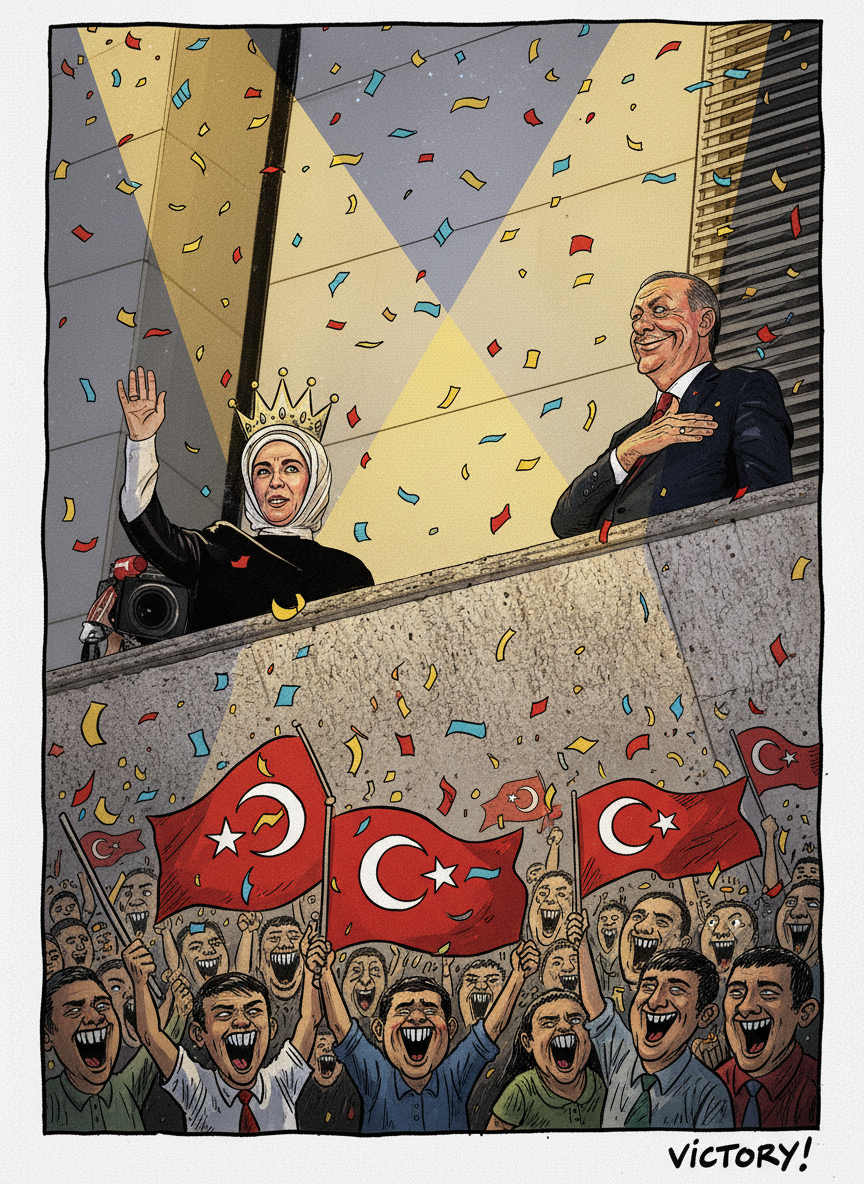
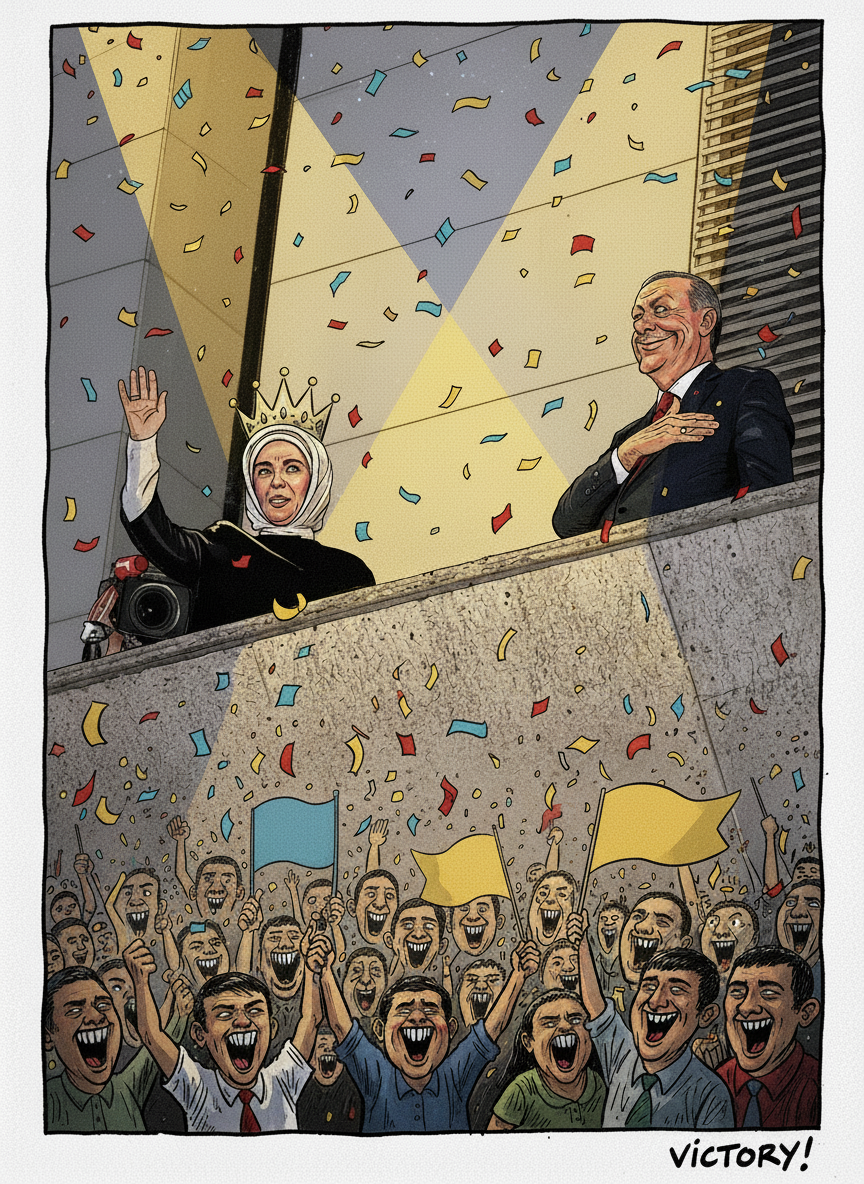
Changes

diff --git a/src/data/electionData.ts b/src/data/electionData.ts
@@ -59,11 +59,11 @@ const electionsTr: ElectionConfig[] = [
     startingPlayerVote: 55,
     playerCards: [
       { id: 11, text: "Gezi olaylarını terörize et", emoji: "😱", voterEffect: 6, cost: 10 },
-      { id: 12, text: "Milli birlik çağrısı yap", emoji: "🇹🇷", voterEffect: 7, cost: 14 },
+      { id: 12, text: "Milli birlik çağrısı yap", emoji: "📣", voterEffect: 7, cost: 14 },
       { id: 13, text: "Devlet töreni düzenle", emoji: "🎖", voterEffect: 4, cost: 6 },
       { id: 14, text: "Ekonomik istikrar vaat et", emoji: "📈", voterEffect: 5, cost: 8 },
       { id: 15, text: "Sosyal yardım dağıt", emoji: "📦", voterEffect: 6, cost: 10 },
-      { id: 16, text: "Bayrak kampanyası başlat", emoji: "🏴", voterEffect: 3, cost: 4 },
+      { id: 16, text: "Milli değerler söylemi", emoji: "🏴", voterEffect: 3, cost: 4 },
       { id: 17, text: "Yolsuzluk kasetlerini engelle", emoji: "📼", voterEffect: 5, cost: 7 },
       { id: 18, text: "Muhalefete vatan haini de", emoji: "🗞", voterEffect: 4, cost: 5 },
     ],
@@ -278,7 +278,7 @@ const electionsTr: ElectionConfig[] = [
       { id: 51, text: "Anayasa değişikliği zorla", emoji: "📜", voterEffect: 7, cost: 16 },
       { id: 52, text: "Tüm medyayı sustur", emoji: "🔇", voterEffect: 5, cost: 12 },
       { id: 53, text: "Ekonomik mucize vaat et", emoji: "✨", voterEffect: 8, cost: 20 },
-      { id: 54, text: "Milliyetçi kartı oyna", emoji: "🇹🇷", voterEffect: 6, cost: 13 },
+      { id: 54, text: "Milliyetçi kartı oyna", emoji: "📣", voterEffect: 6, cost: 13 },
       { id: 55, text: "Bedava her şey dağıt", emoji: "🎁", voterEffect: 5, cost: 10 },
       { id: 56, text: "Korku iklimi oluştur", emoji: "😰", voterEffect: 6, cost: 14 },
       { id: 57, text: "Sahte zafer ilan et", emoji: "🏆", voterEffect: 3, cost: 6 },
@@ -387,11 +387,11 @@ const electionsEn: ElectionConfig[] = [
     startingPlayerVote: 55,
     playerCards: [
       { id: 11, text: "Label Gezi as terrorism", emoji: "😱", voterEffect: 6, cost: 10 },
-      { id: 12, text: "Call for national unity", emoji: "🇹🇷", voterEffect: 7, cost: 14 },
+      { id: 12, text: "Call for national unity", emoji: "📣", voterEffect: 7, cost: 14 },
       { id: 13, text: "Hold state ceremony", emoji: "🎖", voterEffect: 4, cost: 6 },
       { id: 14, text: "Promise economic stability", emoji: "📈", voterEffect: 5, cost: 8 },
       { id: 15, text: "Distribute social aid", emoji: "📦", voterEffect: 6, cost: 10 },
-      { id: 16, text: "Launch flag campaign", emoji: "🏴", voterEffect: 3, cost: 4 },
+      { id: 16, text: "National values rhetoric", emoji: "🏴", voterEffect: 3, cost: 4 },
       { id: 17, text: "Block corruption tapes", emoji: "📼", voterEffect: 5, cost: 7 },
       { id: 18, text: "Call opposition traitors", emoji: "🗞", voterEffect: 4, cost: 5 },
     ],
@@ -606,7 +606,7 @@ const electionsEn: ElectionConfig[] = [
       { id: 51, text: "Force constitution change", emoji: "📜", voterEffect: 7, cost: 16 },
       { id: 52, text: "Silence all media", emoji: "🔇", voterEffect: 5, cost: 12 },
       { id: 53, text: "Promise economic miracle", emoji: "✨", voterEffect: 8, cost: 20 },
-      { id: 54, text: "Play the nationalist card", emoji: "🇹🇷", voterEffect: 6, cost: 13 },
+      { id: 54, text: "Play the nationalist card", emoji: "📣", voterEffect: 6, cost: 13 },
       { id: 55, text: "Give away everything free", emoji: "🎁", voterEffect: 5, cost: 10 },
       { id: 56, text: "Create climate of fear", emoji: "😰", voterEffect: 6, cost: 14 },
       { id: 57, text: "Declare fake victory", emoji: "🏆", voterEffect: 3, cost: 6 },
